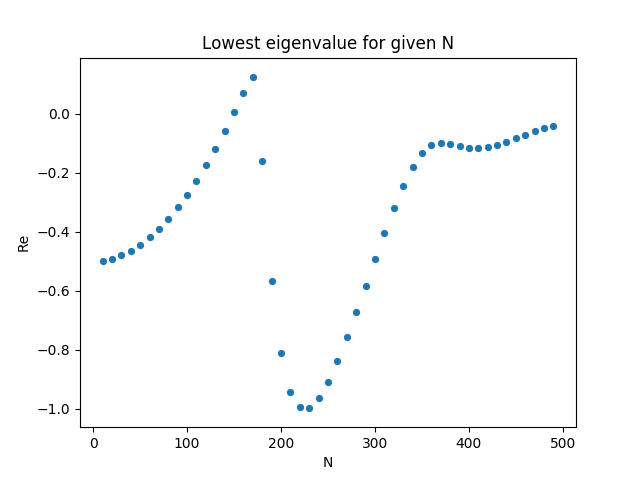
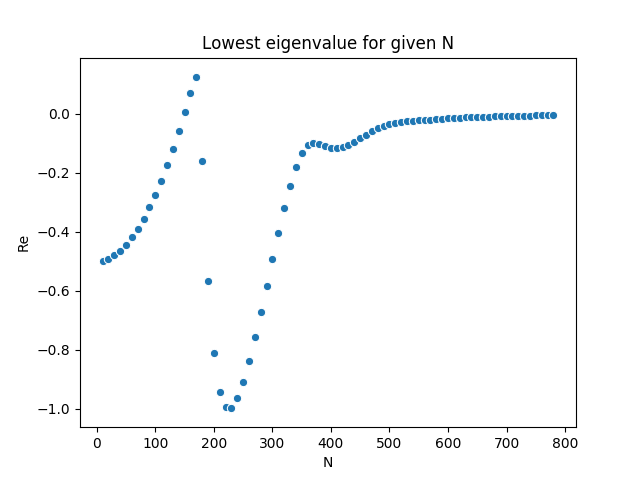
Updated gs eigenvalue for N=[500-800]

diff --git a/Analysis/plot_evals.py b/Analysis/plot_evals.py
@@ -11,12 +11,14 @@ ROOT_FIGURES = os.path.join('../Figures/', MODEL)
 columns = ["Re","Im"]
 
 N_evals = 1
-N = 500
+N = 790
 
 i_0 = 10
 steps = 10
 for i in range(i_0,N,steps):
     df = pd.read_csv(os.path.join(ROOT_DATA,"EVal_sig_1_i" + str(0) + '_N_' + str(i)), header=None, names=columns).sort_values(by=['Re'], ascending = False)[0:N_evals].reset_index()
+    #df = pd.read_csv(os.path.join(ROOT_DATA,"EVal_sig_1_i" + str(i)), header=None, names=columns)[0:N_evals].reset_index()
+
     df['N'] = i
     if (i==i_0):
         all_ev = df
@@ -29,5 +31,7 @@ all_ev.Im = all_ev.Im*(-1)
 
 sns.scatterplot(data=all_ev, x="N", y="Re")#, hue="index")
 plt.title("Lowest eigenvalue for given N")
-plt.savefig(os.path.join(ROOT_FIGURES, 'EVal_gs_varyN_-100_100'))
+#plt.title("Varying Complex part of sigma")
+#plt.savefig(os.path.join(ROOT_FIGURES, 'EVal_sigma_1_i0-20_NEvals_8_on_-100_100'))
+plt.savefig(os.path.join(ROOT_FIGURES, 'EVal_gs_varyN_10-800_on_-100_100'))
 plt.show()

diff --git a/Notes/Lowest_EVal.md b/Notes/Lowest_EVal.md
@@ -40,9 +40,25 @@ Setting up with the 4 parameters:
 
 ### Running tests with varying N
 The result of the caluclation of $\lambda_0$ for N=10 to N=500 with a stepsize of 10 is shown i the picture below:
-![Fig:](../Figures/LM_AHO/EVal_gs_varyN_-100_100.png)
+![Fig:](../Figures/LM_AHO/EVal_gs_varyN_10-500_on_-100_100.png)
 
 One can see that the real part of the lowest eigenvalue is in general negativ, i.e., it does not follow the theoretical prediction that this should always be positive. As this value is varying, and somtime also positive, it could be that the accuracy when doing the discritization is not good enough until one goes to $N>500$.
 
+#### Update on N>500
+Her is the same plot as above only on N>500. The eigenvalues for N>500 increase towards 0, which can mean that for $N\rightarrow \infty$ then $\textrm{Re } \lambda_0 \rightarrow 0$.
+![Fig:](../Figures/LM_AHO/EVal_gs_varyN_10-800_on_-100_100.png)
 
+### See that eigenvalues are not exact. 
+From papers calculating the same eigenvalues, the eigenvalues can be compared to see if they are the same. Comparing with (Klauder 1985: J.Stat.Phys. 39 (1985) 53-72) in the picture below:
+![Fig:](../Figures/LM_AHO/Klauder_EigenvalueInComplexPlane.png).
+
+The plot above varies the sigma parameter in the action. The vayway theave calculated the eigenvalues is by expanding the psobability distribution in the Harmonic Oscillator energy states. 
+
+![Fig:](../Figures/LM_AHO/EVal_sigma_1_i0-15_NEvals_8_on_-100_100.png)
+
+The figure above show that the eigenvalues follow the same pattern as for Klauder 1985. This is for the 8 first eigenvalues, and sigma is varied from $\sigma=1+0i$ to $\sigma=1+15i$. For higher imagenary part of the sigma, the pattern dissapear:
+
+![Fig:](../Figures/LM_AHO/EVal_sigma_1_i0-20_NEvals_8_on_-100_100.png)
+
+which could mean that we need a higher number of discretization points or a higher second derivative approximation order. The plots above is for $N=500$.
 
